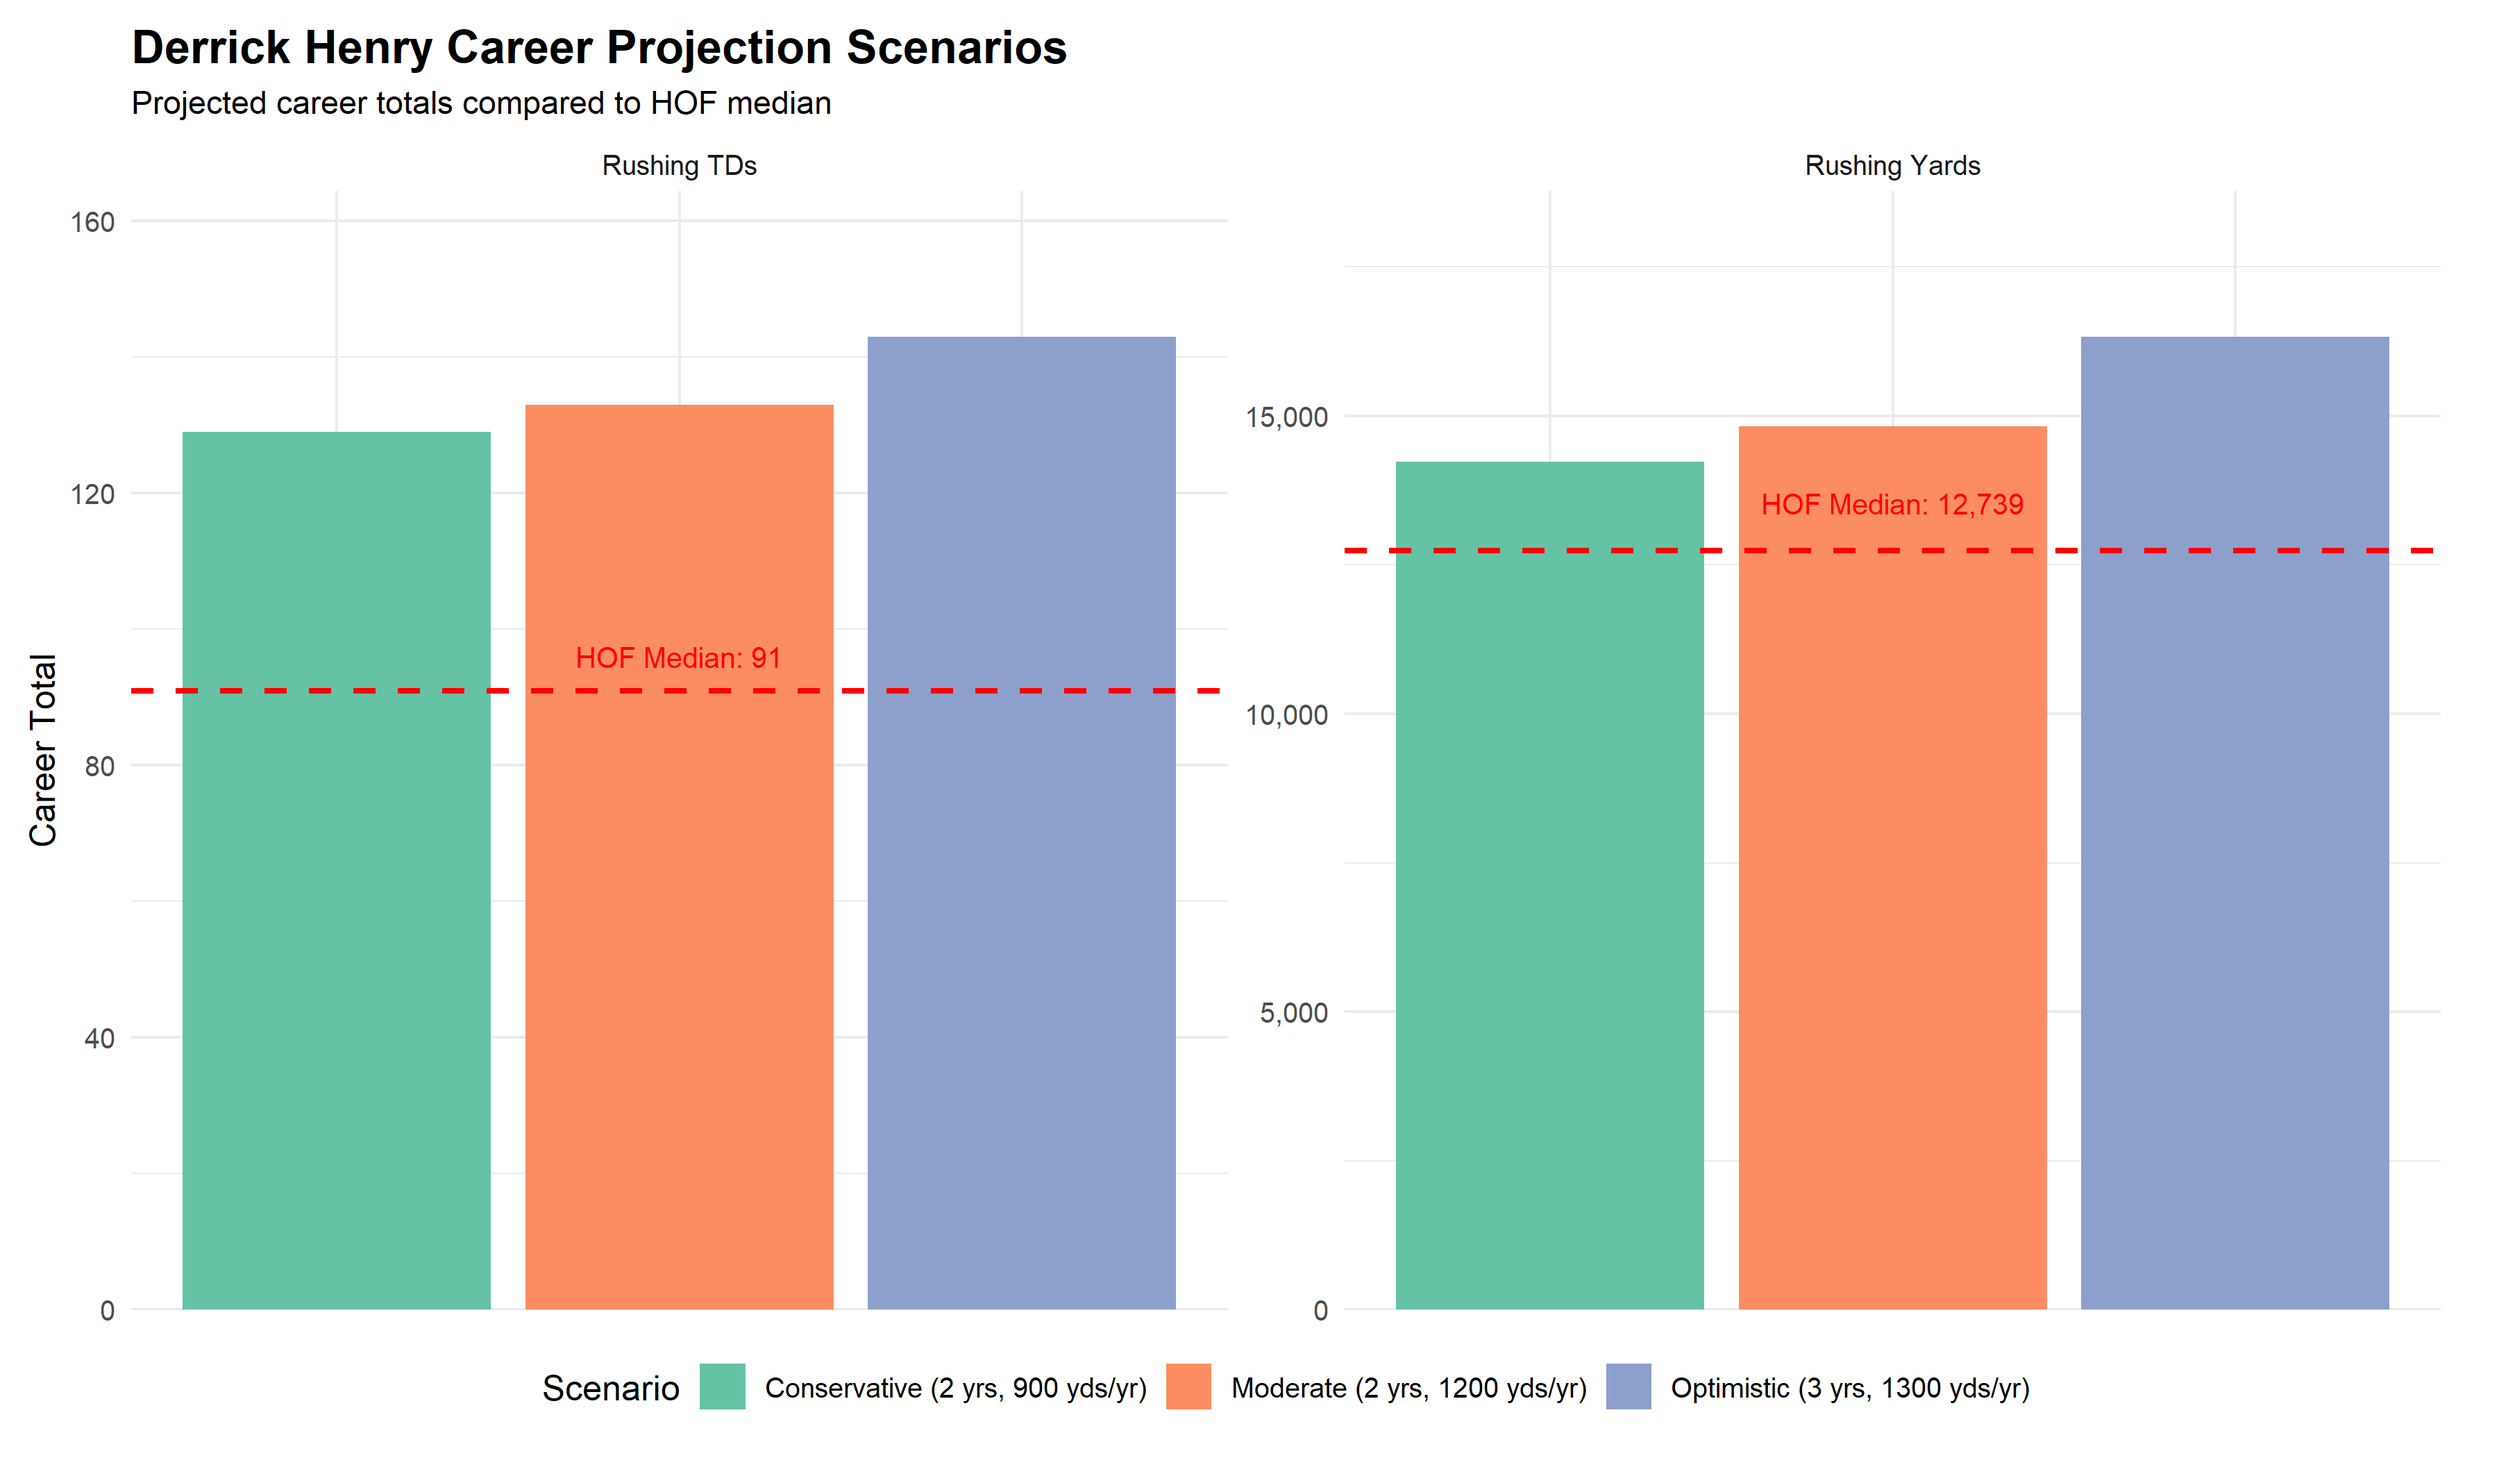
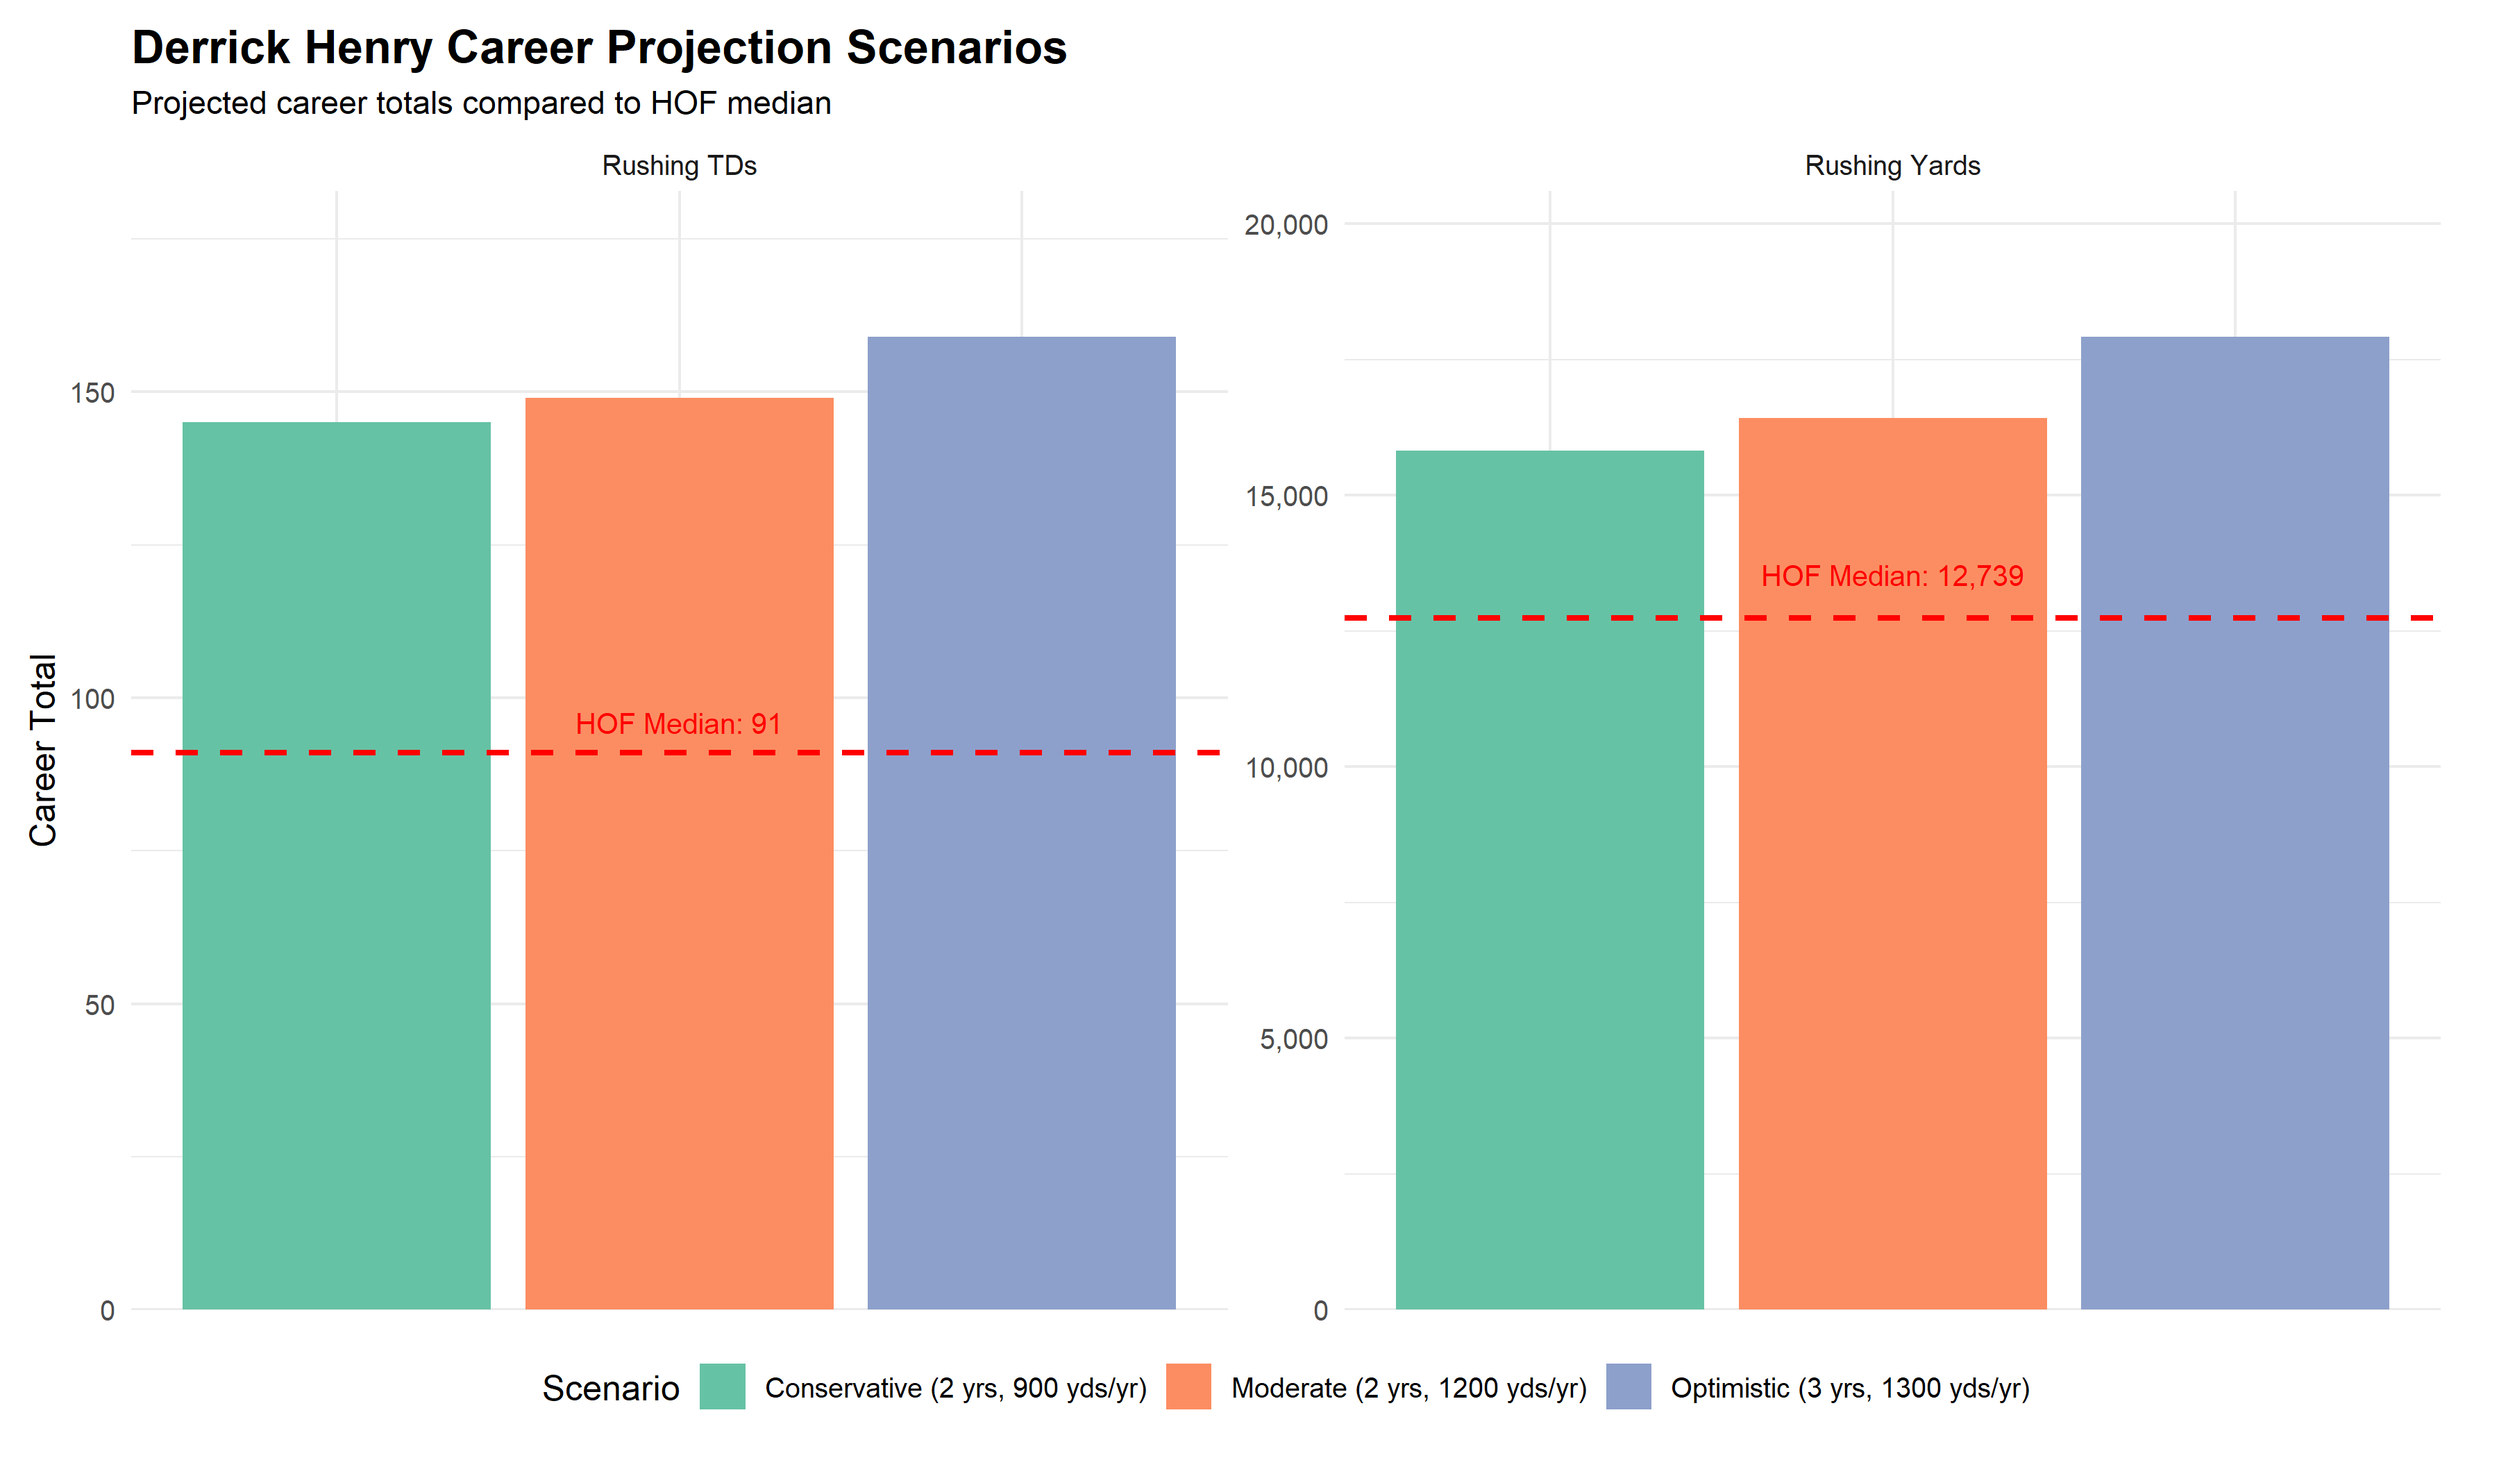
Update analysis to include 2025 season data
Major findings update:
- Henry now EXCEEDS HOF median for rushing yards (14,020 vs 12,739)
- Exceeds HOF median for TDs (129 vs 91)
- Verdict changed from "not a lock" to "strong HOF case"
- Updated projections and visualizations with 2025 data

2025 Season: 1,595 yards, 16 TDs in 17 games

diff --git a/README.md b/README.md
@@ -9,13 +9,13 @@ This project analyzes whether Derrick Henry should and will be inducted into the
 
 ## Key Findings
 
-### Current Status (Through 2024 Season)
+### Current Status (Through 2025 Season)
 
 **Career Statistics:**
-- **Seasons Played:** 9
-- **Career Rushing Yards:** 12,425 yards (97.5% of HOF median)
-- **Career Rushing TDs:** 113 (124.2% of HOF median)
-- **Yards per Carry:** 4.87
+- **Seasons Played:** 10
+- **Career Rushing Yards:** 14,020 yards (110.1% of HOF median) ✓ **EXCEEDS MEDIAN**
+- **Career Rushing TDs:** 129 (141.8% of HOF median) ✓ **EXCEEDS MEDIAN**
+- **Yards per Carry:** 4.90
 - **Major Accolades:**
   - 2x NFL Rushing Champion (2019, 2020)
   - 1x 2,000-yard season (2,027 yards in 2020)
@@ -24,18 +24,18 @@ This project analyzes whether Derrick Henry should and will be inducted into the
 
 | Question | Answer |
 |----------|--------|
-| **Should he make the Hall of Fame?** | Not a lock yet - needs more accumulation |
-| **Will he make the Hall of Fame?** | **YES**, trending toward HOF with 2+ productive years |
-| **First ballot?** | Unlikely without MVP award or additional rushing titles |
+| **Should he make the Hall of Fame?** | **YES** - now exceeds HOF median benchmarks |
+| **Will he make the Hall of Fame?** | **YES** - strong Hall of Fame case with current stats |
+| **First ballot?** | Possible but not guaranteed - needs 1-2 more strong seasons |
 
 ### What He Needs for LOCK Status
 
-Derrick Henry is **only 314 yards away from the Hall of Fame median** for rushing yards (12,739 yards). To become a Hall of Fame lock, he needs:
+Derrick Henry has **already exceeded the Hall of Fame median** for both rushing yards (14,020 vs 12,739) and touchdowns (129 vs 91). To become a **first-ballot lock**, he needs:
 
-1. **2+ more seasons with 1,000+ rushing yards** each
-2. **Reach 13,000+ career rushing yards** (needs ~575 more)
-3. **Reach 100+ career rushing TDs** ✓ Already achieved (113 TDs)
-4. **Maintain elite yards-per-carry average** ✓ Currently at 4.87 YPC
+1. **1-2 more productive seasons** (1,000+ rushing yards each)
+2. **Reach 15,000+ career rushing yards** (needs ~980 more)
+3. **Another rushing title or MVP award** (currently has 2 rushing titles)
+4. **Maintain elite yards-per-carry average** ✓ Currently at 4.90 YPC
 
 ### Career Projections
 
@@ -43,9 +43,9 @@ Three scenarios for Henry's career finish:
 
 | Scenario | Additional Years | Total Yards | Total TDs | HOF Status |
 |----------|-----------------|-------------|-----------|------------|
-| **Conservative** | 2 years @ 900 yds/yr | 14,225 | 129 | ✓ Exceeds median |
-| **Moderate** | 2 years @ 1,200 yds/yr | 14,825 | 133 | ✓ Exceeds median |
-| **Optimistic** | 3 years @ 1,300 yds/yr | 16,325 | 143 | ✓ Top 5 all-time |
+| **Conservative** | 2 years @ 900 yds/yr | 15,820 | 145 | ✓ Strong HOF case |
+| **Moderate** | 2 years @ 1,200 yds/yr | 16,420 | 149 | ✓ Top 5 all-time |
+| **Optimistic** | 3 years @ 1,300 yds/yr | 17,920 | 159 | ✓ Top 3 all-time |
 
 **All realistic scenarios result in Hall of Fame-worthy totals.**
 
@@ -87,15 +87,15 @@ Even conservative projections show Henry finishing with Hall of Fame-caliber car
 
 ## Bottom Line
 
-**Derrick Henry is NOT a Hall of Fame lock yet**, but he's clearly trending in the right direction. With just **2-3 more productive seasons** (1,000+ yards), he will comfortably exceed the Hall of Fame benchmarks.
+**Derrick Henry HAS NOW EXCEEDED the Hall of Fame benchmarks** for both rushing yards (110.1% of median) and touchdowns (141.8% of median). He has a **strong Hall of Fame case** with his current statistics.
 
-His peak performance (2019-2020) was HOF-caliber, but he needs more longevity and accumulation to secure his place.
+His peak performance (2019-2020, 2024) was elite, and with 10 seasons of production, he has both the peak and longevity needed for enshrinement.
 
-**Current Projection:** EVENTUAL Hall of Famer, but likely **not first ballot** unless he wins MVP or another rushing title.
+**Current Projection:** Hall of Famer. With 1-2 more productive seasons, he could become a **first-ballot** selection. He's already cemented his place among the all-time great running backs.
 
 ## Data Sources
 
-- **NFL Statistics:** [nflreadr](https://nflreadr.nflverse.com/) package (2016-2024 seasons)
+- **NFL Statistics:** [nflreadr](https://nflreadr.nflverse.com/) package (2016-2025 seasons)
 - **Hall of Fame Data:** Historical records for modern-era (post-1970) Hall of Fame running backs
 
 ## Project Structure
@@ -135,4 +135,4 @@ MIT License - Copyright (c) 2026 Alyssa Pybus
 
 ---
 
-*Analysis conducted using official NFL statistics through the 2024 season.*
+*Analysis conducted using official NFL statistics through the 2025 season.*
